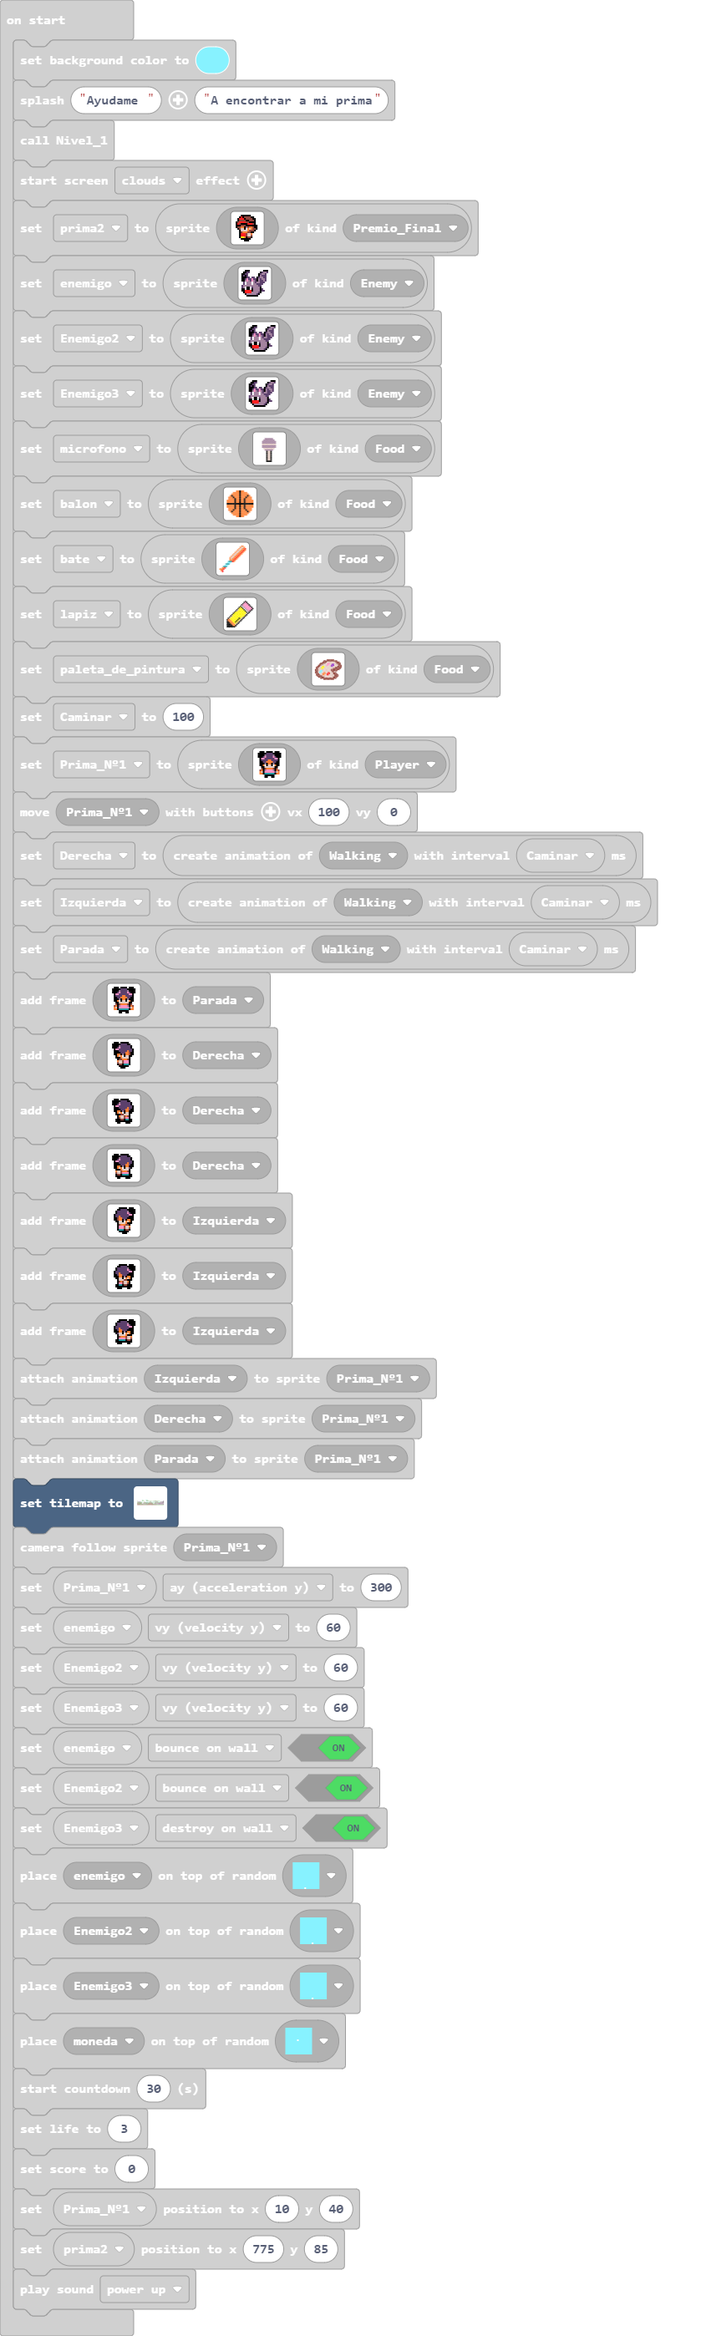
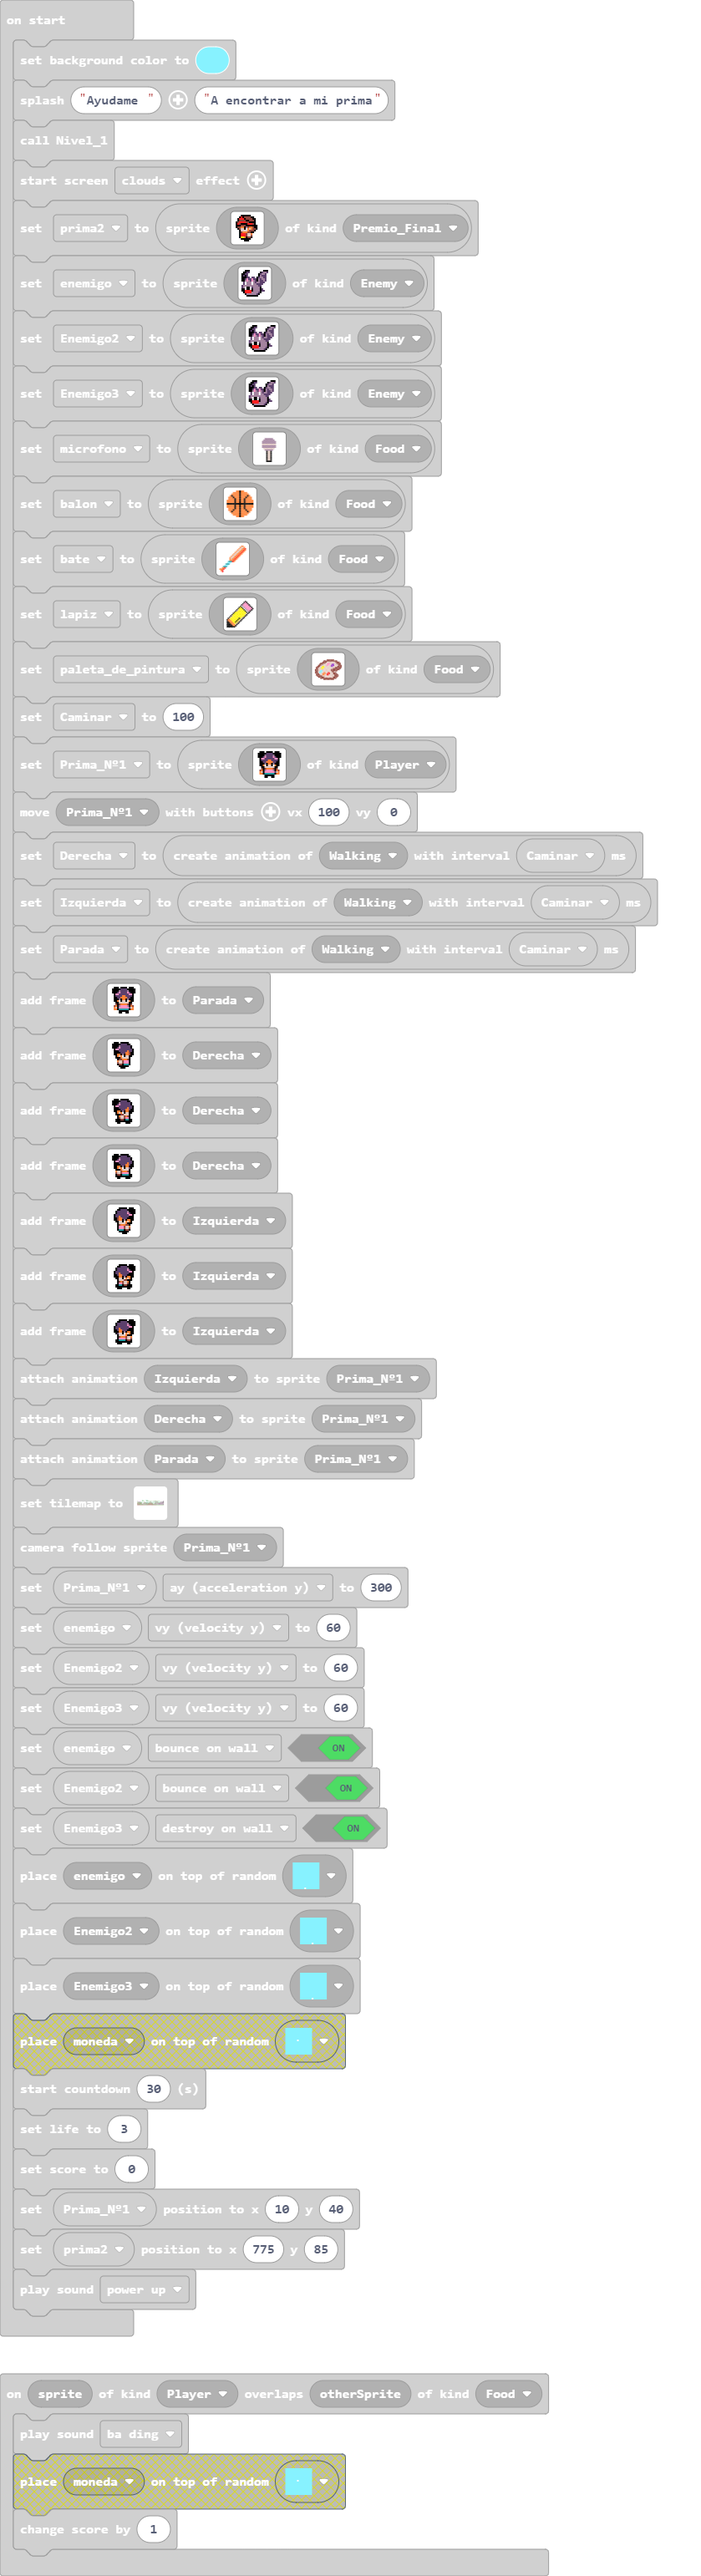
Update main.blocks, main.ts

Changed region(s): [[0.0, 0.0, 0.9607, 1.0]]

diff --git a/main.ts b/main.ts
@@ -137,7 +137,6 @@ sprites.onOverlap(SpriteKind.Player, SpriteKind.Premio_Final, function (sprite, 
 })
 sprites.onOverlap(SpriteKind.Player, SpriteKind.Food, function (sprite, otherSprite) {
     music.baDing.play()
-    tiles.placeOnRandomTile(moneda, myTiles.tile8)
     info.changeScoreBy(1)
 })
 sprites.onOverlap(SpriteKind.Projectile, SpriteKind.Enemy, function (sprite, otherSprite) {
@@ -158,7 +157,6 @@ let projectile: Sprite = null
 let Premio_1: Sprite = null
 let Projectil: Sprite = null
 let direccion = 0
-let moneda: Sprite = null
 let Prima_Nº1: Sprite = null
 let Enemigo3: Sprite = null
 let Enemigo2: Sprite = null
@@ -525,7 +523,6 @@ Enemigo3.setFlag(SpriteFlag.DestroyOnWall, true)
 tiles.placeOnRandomTile(enemigo, myTiles.tile7)
 tiles.placeOnRandomTile(Enemigo2, myTiles.tile7)
 tiles.placeOnRandomTile(Enemigo3, myTiles.tile7)
-tiles.placeOnRandomTile(moneda, myTiles.tile8)
 info.startCountdown(30)
 info.setLife(3)
 info.setScore(0)
